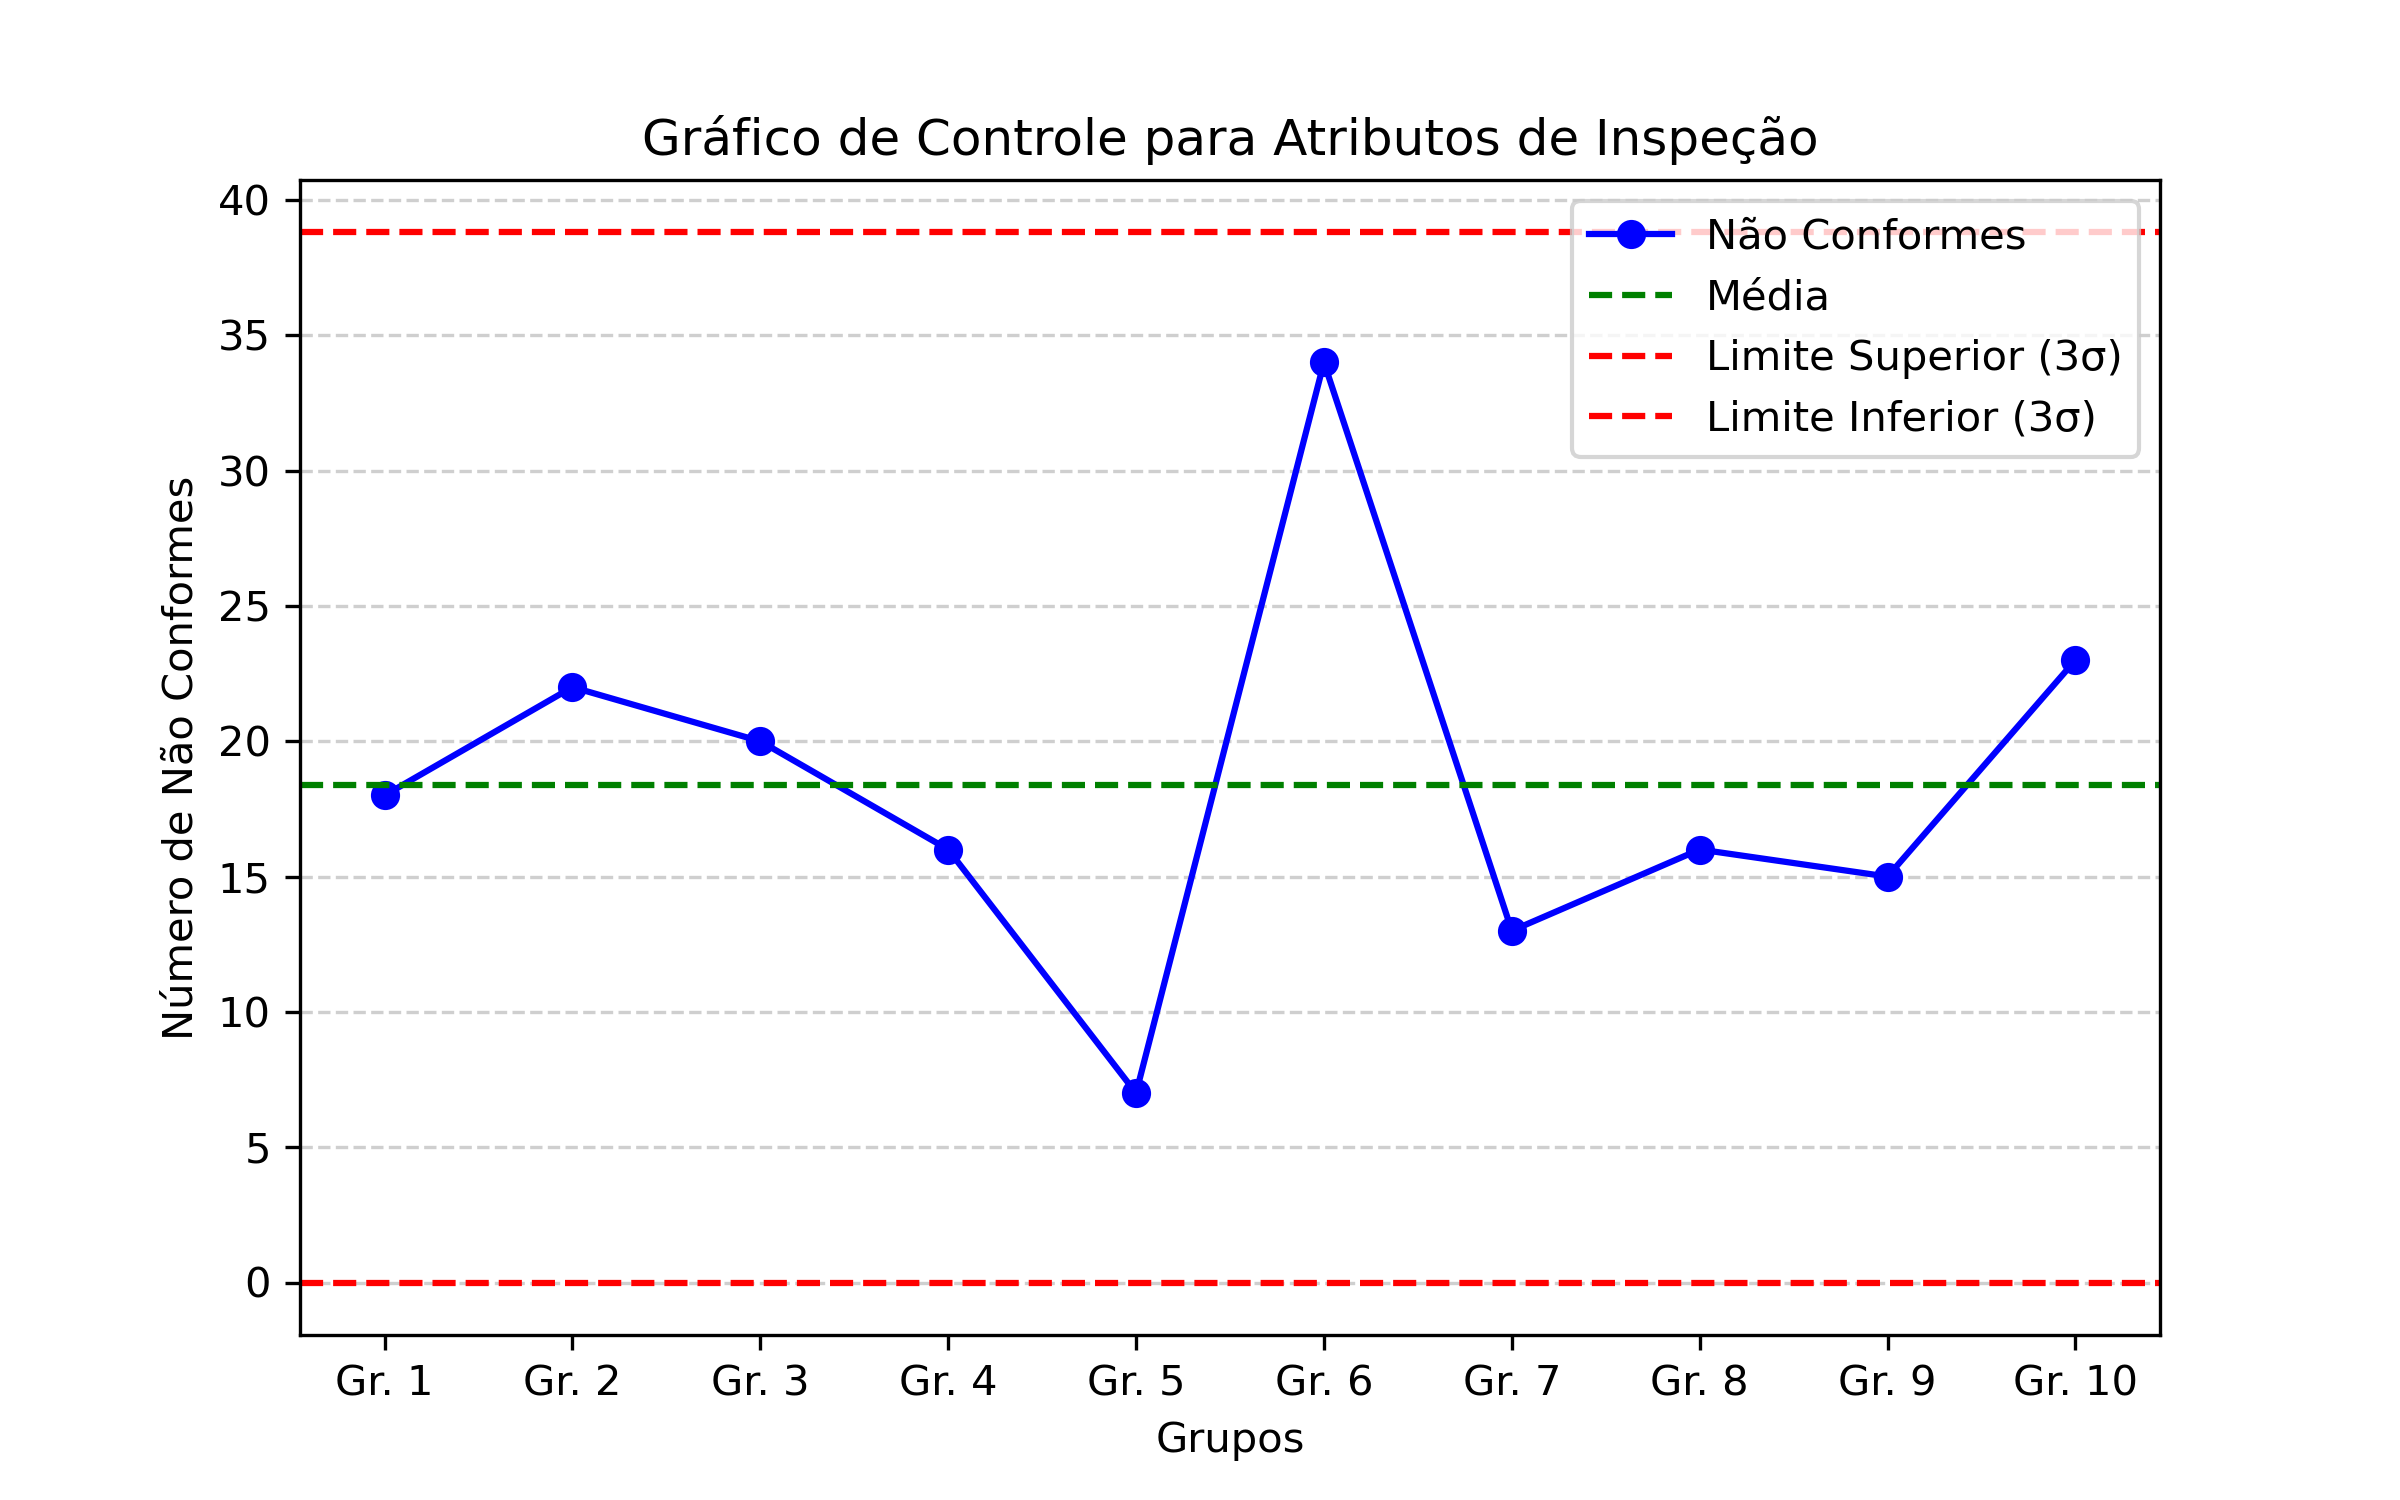
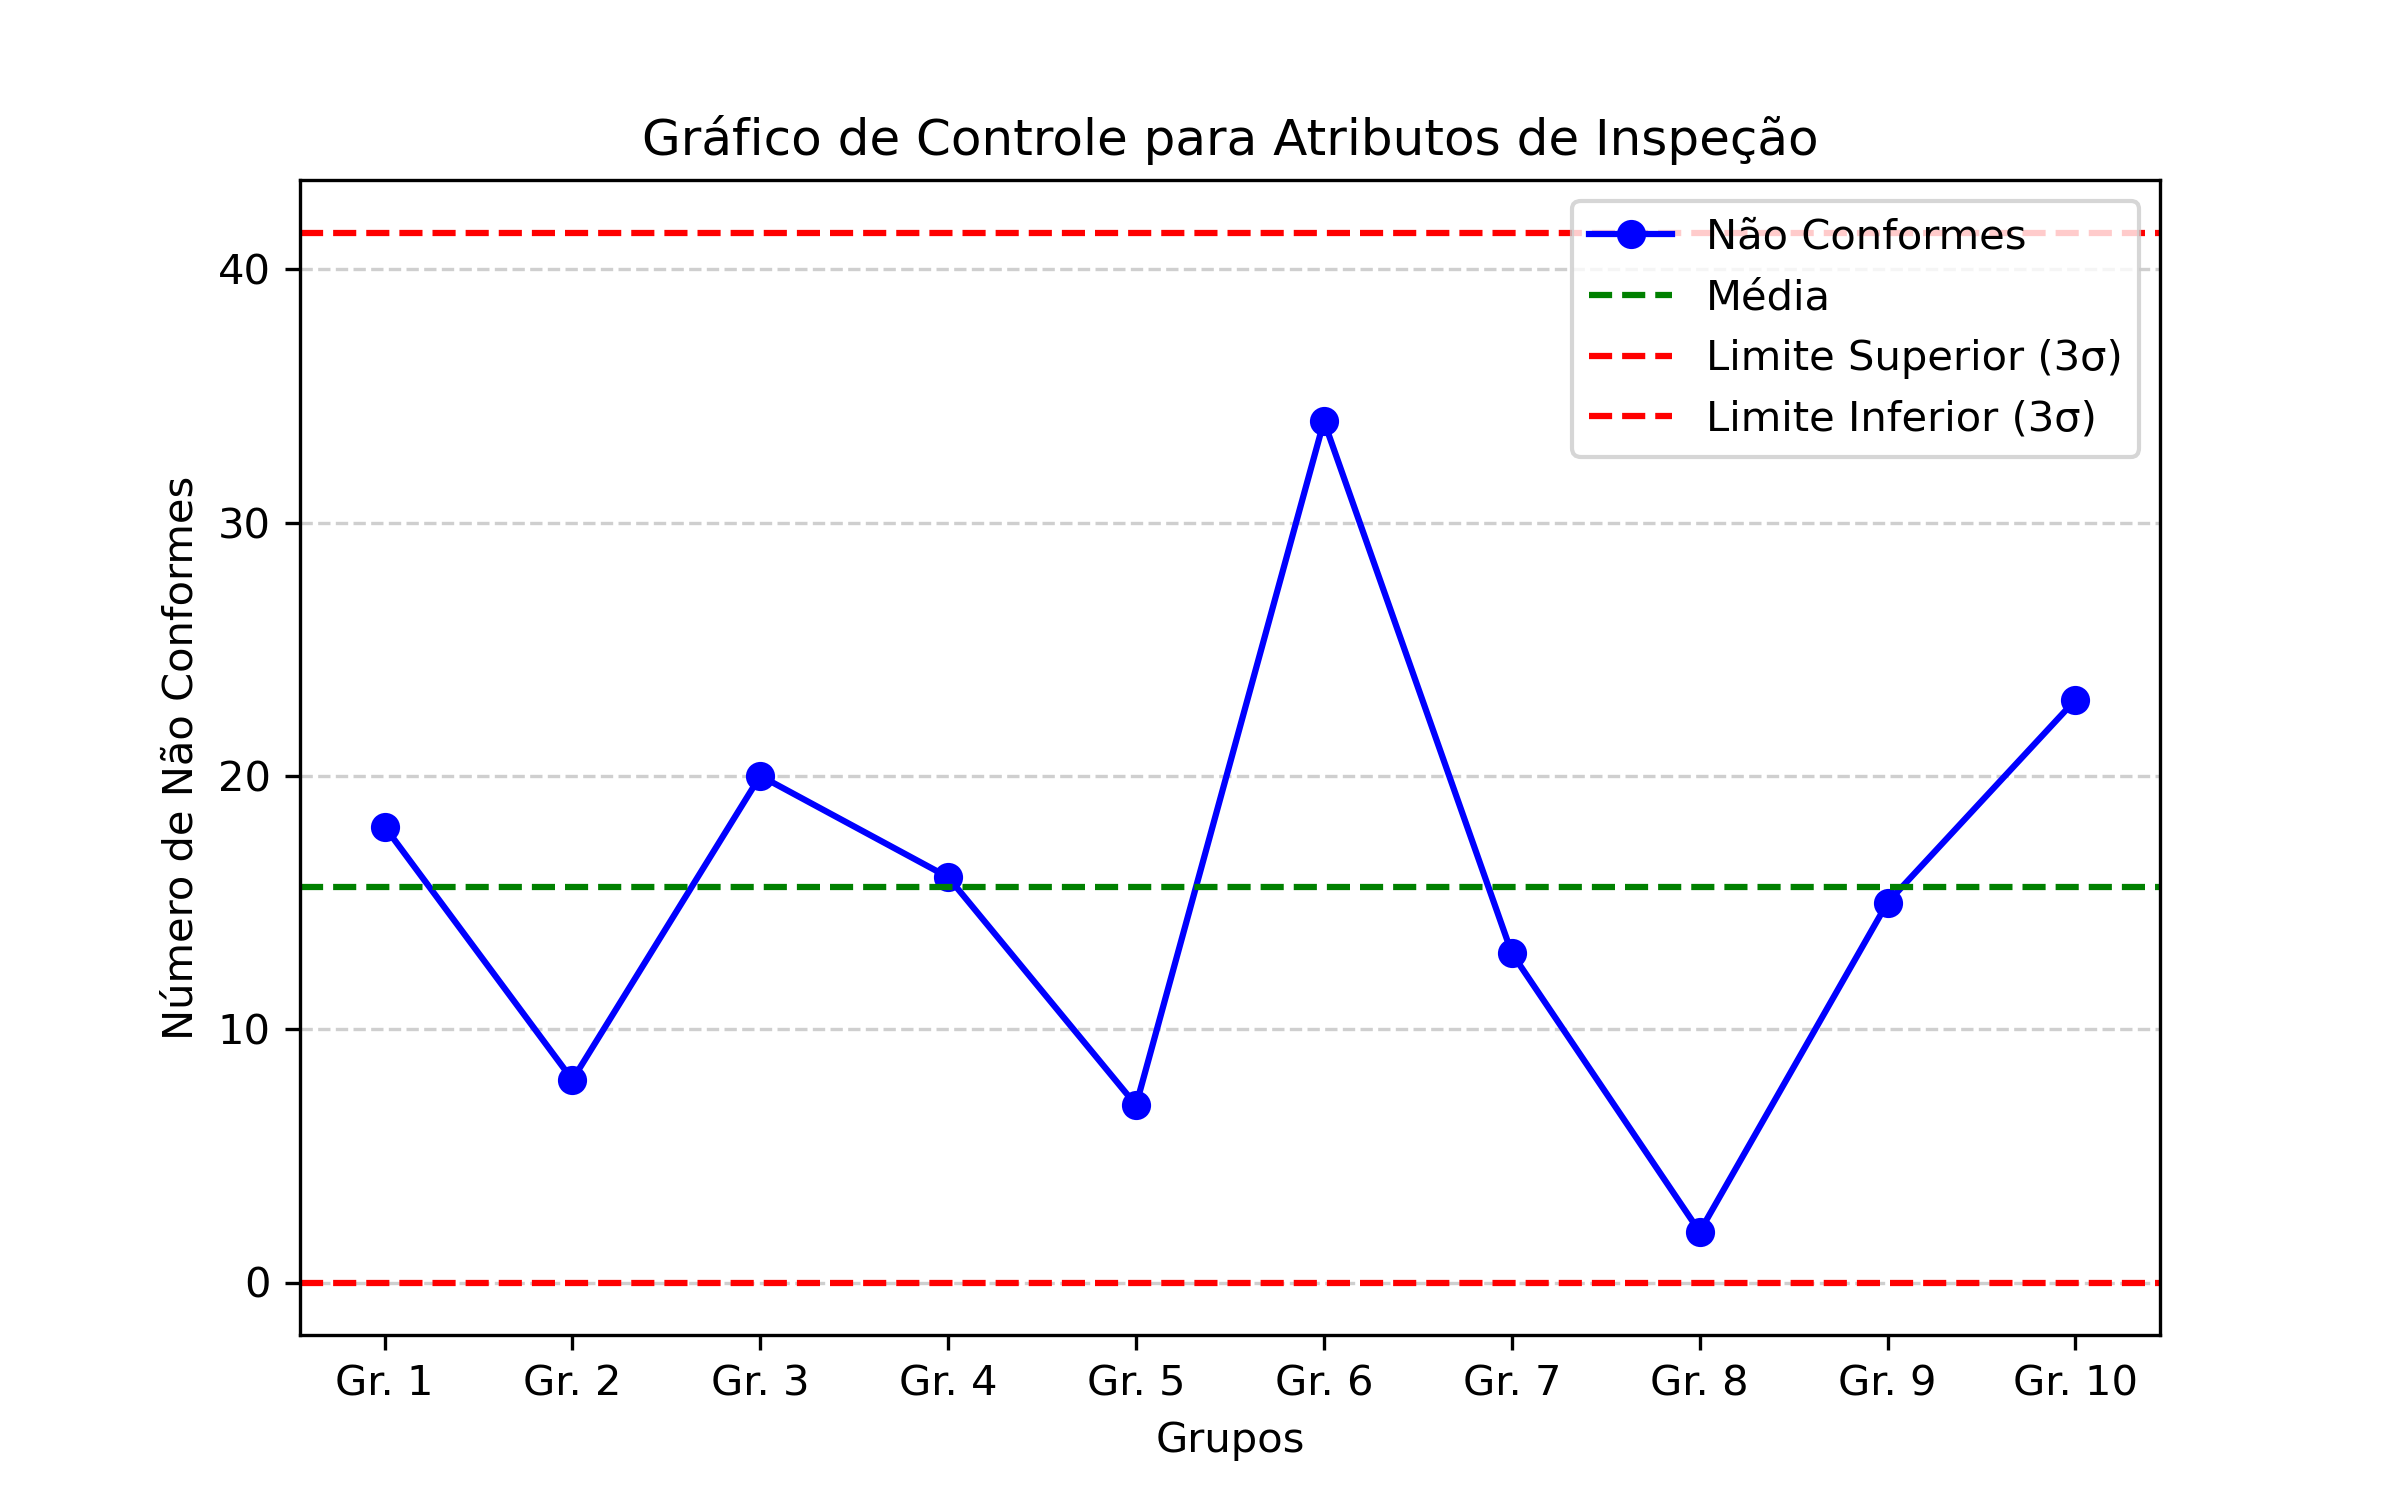
:memo: (#D05): Incremento das análises dos demais grupos da entrega 1 e 2, além de correções nos gráficos da entrega 2 considerando o aspecto de personas.

diff --git a/docs/inspecao/monitores/analise.md b/docs/inspecao/monitores/analise.md
@@ -74,7 +74,11 @@ Nessa etapa, a inspeção foi executada no contexto do aplicativo *Guardiões da
 
 #### **Síntese da Inspeção**
 
-O documento avalia a estrutura e planejamento do projeto *Deepseek*, abordando a organização da equipe, cronograma de atividades e técnicas de elicitação e priorização de requisitos.
+Na entrega 2, ao avaliar a inspeção do nosso grupo (2) na [Figura 2](#imagem-inspecao-grupo2-entrega2), percebe-se que houve conformidade em 22 itens, maior que a entrega anterior (11 itens) em valores absolutos. Assim, o analisar a proporção dos itens na entrega 2, essa quantidade se expressou como 44,9% de conformidade ("sim"), 10,2% de "incompletos" e 44,9% de inconformes ("não"), o que significa redução de 14,3% de itens conformes e aumento de 57% de itens inconformes; tal padrão de declínio também foi encontrado nos demais grupos, como pode ser visto no comparativo do gráficos da [entrega 1](#imagem-grafico-histograma-grupos-entrega1) e da [entrega 2](#imagem-grafico-histograma-grupos-entrega2).
+
+Aprofudando na questão antes posta, para verificar o que pode ter causado isso, foi encontrado 14 itens (item) da técnica de personas na lista de inspeção. No entanto, a utilização dessa técnica não era obrigatória para a entrega e era somente aplicável a grupos que utilizaram a mesma. Nesse sentido, como o nosso grupo (2) não utilizou a técnica e, mesmo assim, foi avaliado os itens, para adequada correção da taxa de conformidade em tal entrega pelo nosso grupo, recalcula-se considerando o decrescimo de 14 itens do total de itens inconformes ("não"). Por consequência, a nova proporção atingida pelo nosso grupo dos itens foi: cerca de 62,9% conformidade (22 itens "sim"), 14,3% parcial conformidade (5 itens "incompleto") e 22,9% de inconformidade (8 itens "não"). Ou seja, efetivamente, nosso grupo alcançou 20% de acrescimo nos itens em conformidade, o que indica um aspecto positivo entre a entrega 1 e entrega 2, aindam mais em termos de itens conformes em valor absoluto.
+
+Enfim, Pode ser percebido que entre a entrega 1 e 2, o grupo 2 conseguiu uma melhora substancial, mas ainda com espaço para aprimoramento e melhoria. Além disso, é importante salientar que da entrega 1 para a entrega 2, houve um grande entrave, o qual houve a necessidade de mudarmos de aplicativo, antes sendo o [*Guardiões da Saúde*](../../doc-guardioes-da-saude/index.md) (Projeto Obsoleto) - em que já haviamos planejado e estava adiantado em mérito de execução para entrega de elicitação - para o do *deepseek* - tendo que utilizar mais 4 outras técnicas de elcitação em um prazo, que antes já estava curto, para um menor ainda. Mesmo assim, dado as circunstâncias o desempenho foi bem satisfatório. 
 
 ##### **Principais Conformidades**
 - Histórico de versão padronizado.
@@ -167,7 +171,7 @@ Para a inspeção dos demais grupos, diferentemente do foco posto no nosso grupo
 
 #### Análise
 
-Nos gráficos abaixo ()
+Na entrega 1, ao analisar os gráficos da [Figura 3](#imagem-inspecao-grupos-entrega1) e [Figura 4](#imagem-grafico-histograma-grupos-entrega1), compreende-se um alto nível de conformidade nas inspeções dos grupos, sendo o grupo 2 com menor número de itens conformes (11) - 52.4% de conformidade - e os grupos 5 e 9 com maior número de itens conformes (17) - 81% de conformidade. Além disso, pelo gráfico de controle de conformidade da entrega 1 [(Figura 5)](#imagem-grafico-controle-grupos-entrega1), estabelece-se que a média de itens não conformes foi cerca de 2,5 itens, o grupo 9 tendo nenhum item inconforme ("não") e o grupo 2, sendo o grupo com maior quantidade de itens inconformes, com 6 itens "não". De qualquer modo, nenhum grupo atingiu ou passou o limite superior de itens inconformes, o que implica dizer que manteve-se um número total de itens inconformes dentro da faixa esperada entre os grupos e, logo, atingindo um adequado estado de qualidade na entrega 1.
 
 <a name="imagem-inspecao-grupos-entrega1"></a>
 <h3 align="center">Figura 3: Gráficos das inspeções dos demais grupos - Entrega 1</h3>
@@ -224,6 +228,12 @@ Nos gráficos abaixo ()
 
 #### Análise
 
+Para a entrega 2, perceba que os gráficos da [Figura 6](#imagem-inspecao-grupos-entrega2), [Figura 7](#imagem-grafico-histograma-grupos-entrega2) e [Figura 8](#imagem-grafico-controle-grupos-entrega2) são referentes aos valores atribuidos pelos monitores, o qual é importante estabelecer quais grupos utilizaram a técnica de personas e quais não, pois deve ser descontado daqueles grupos que não o utilizaram, já que não era uma técnica obrigatória a ser utilizada. Assim, Percebe-se que a aplicação dos 14 itens de personas não é válida para os grupos: Grupo 2 e Grupo 8, os quais não utilizaram a técnica de personas, para os demais, os gráficos estão adequadamente aplicados. Outro aspecto importante é de que a segunda entrega (com 49 itens) é 133% maior do que a primeira (com 21 itens), o que implica em aspectos mais técnicos a serem avaliados, sem contar que alguns grupos tiveram uma dificuladade a mais, o qual tiveram que mudar de projeto durante essa entrega e refazer algumas técnicas para o novo projeto Assim, estabelecido os aspectos anteriores, segue uma análise da segunda entrega, associada ao conteúdo de elicitação de requistos. 
+
+Inicialmente, pode-se ressaltar que houve um acrescimo, no geral, no número de absoluto de itens conformes, mas também nos itens incompleto e, principalmente, nos itens inconformes ("Não") que podem ser vistos nos gráficos das figuras [3](#imagem-inspecao-grupos-entrega1) e [6](imagem-inspecao-grupos-entrega2). Em outras palavras, apesar de maior número de itens conformes, o que realmente conta é a proporção, o que é visto com maior clareza na [figura 7](#imagem-grafico-histograma-grupos-entrega2). Nesse aspecto, ao visualizar o gráfico de controle do atributo de itens "Não conformes" ("Não") - na [figura 8](#imagem-grafico-controle-grupos-entrega2) - percebe-se que ocorreu um aumento de 174% da média de itens "Não" da entrega 1 ([Figura 5](imagem-grafico-controle-grupos-entrega1)) para os itens da entrega 2, em que na entrega 1 a média de inconformidade foi cerca de 12% e na entrega 2 foi de 32,7%. Em outras palavras, houve um decrescimo geral no grau de conformidade dos grupos.
+
+Enfim, apesar da redução geral na conformidade da entrega 2, ainda sim nenhum grupo transpassou o limite superior do número de não conformidades, o que enquadra em um padrão ainda adequado para essa entrega. Além disso, é possivel perceber um equilibrio entre os grupos que estão abaixo da média (5 grupos) e dos que estão acima (5 grupos), o que sugere que a entrega está sob controle estatístico; isto é, as variações observadas são resultados de causas comuns de variação. Contúdo, o princípio da inspeção é identificar erros e, então, mitigá-los sendo o desejado a proximidade do 0 em mérito de itens "não" e "incompletos" e maximizado os itens "sim".
+
 <a name="imagem-inspecao-grupos-entrega2"></a>
 <h3 align="center">Figura 6: Gráficos das inspeções dos demais grupos - Entrega 2</h3>
 <p align="center">
@@ -263,3 +273,4 @@ Nos gráficos abaixo ()
 | 05/06/2025 |  1.1   | (#D05): adição dos gráficos de análise de conformidade nas inspeções dos monitores nas entregas 1 e 2 dos grupos. | [@Mateus](https://github.com/MVConsorte)   | [@](https://github.com/)  |
 | 05/06/2025 |  1.2   | (#D05): Correção e ajuste em gráficos e adição das tabelas. | [@Mateus](https://github.com/MVConsorte)   | [@](https://github.com/)  |
 | 07/06/2025 |  1.3  | (#D05): Adição dos gráficos de histograma e de controle no contexto das inspeções, além das análise subsequentes tanto do grupo 2 em específico como um panorama geral dos demais grupos.  | [@Mateus](https://github.com/MVConsorte)   | [@](https://github.com/)  |
+| 20/06/2025 |  1.4  | (#D05): Incremento das análises dos demais grupos da entrega 1 e 2, além de correções nos gráficos da entrega 2 considerando o aspecto de personas  | [@Mateus](https://github.com/MVConsorte)   | [@](https://github.com/)  |
